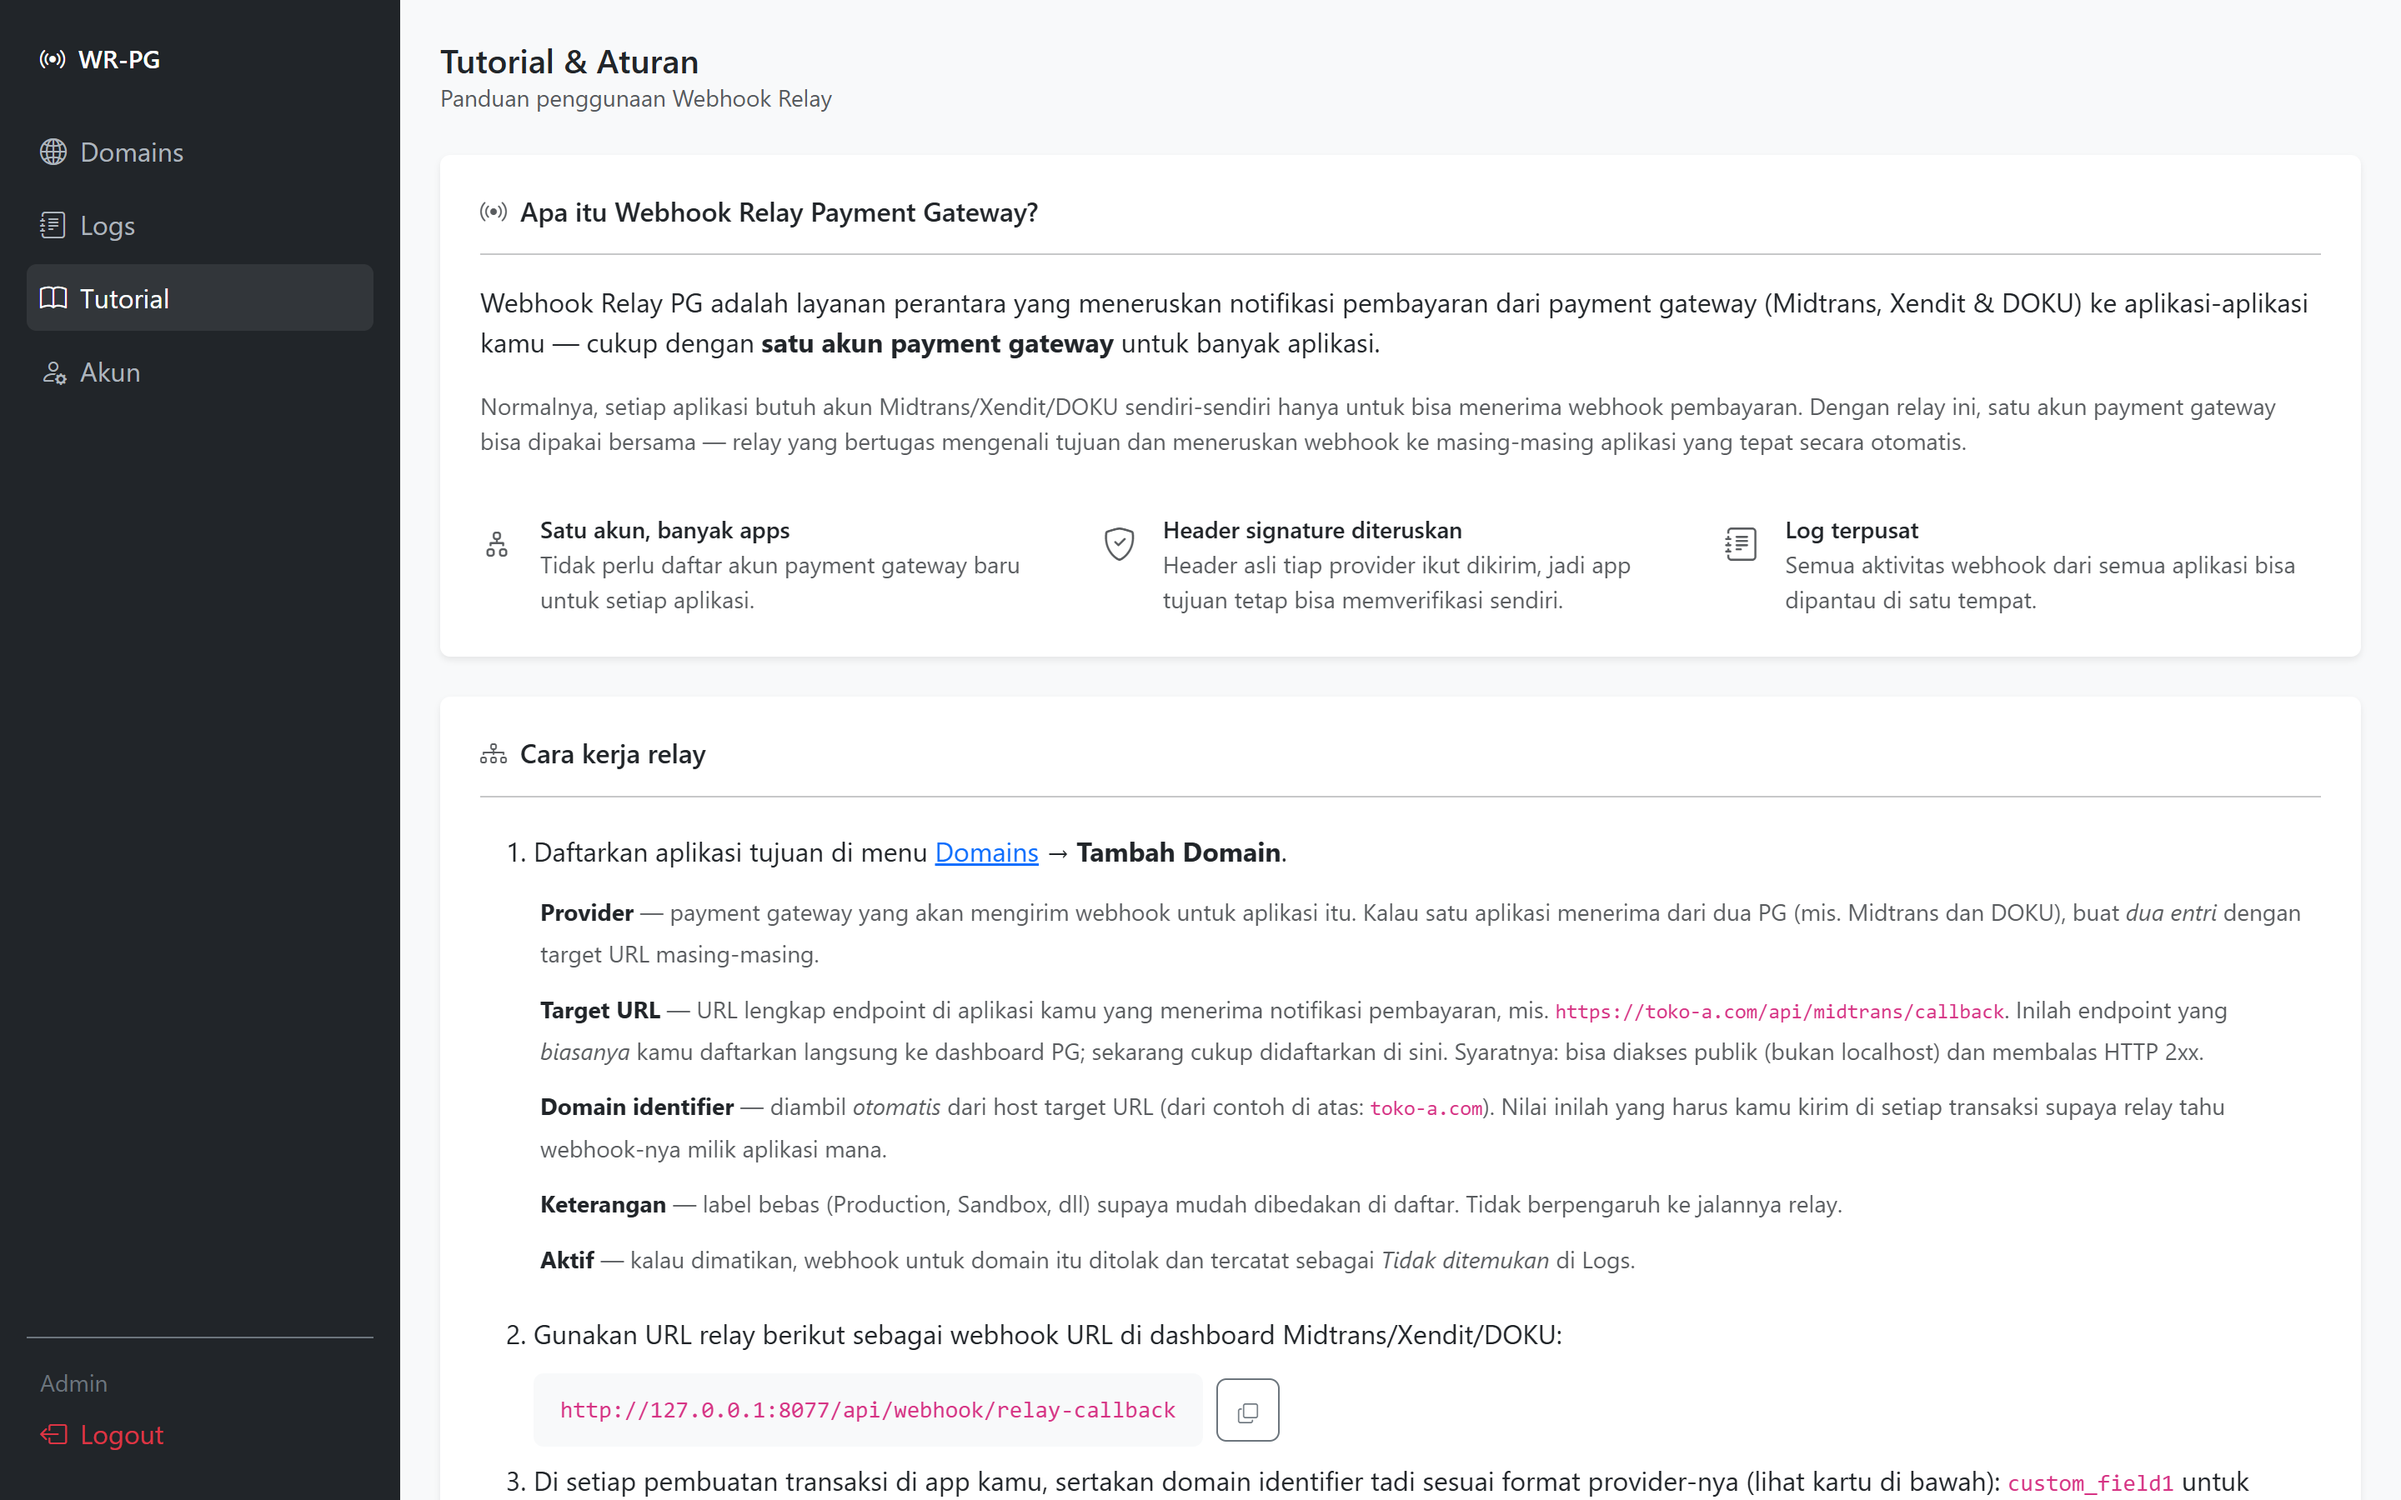
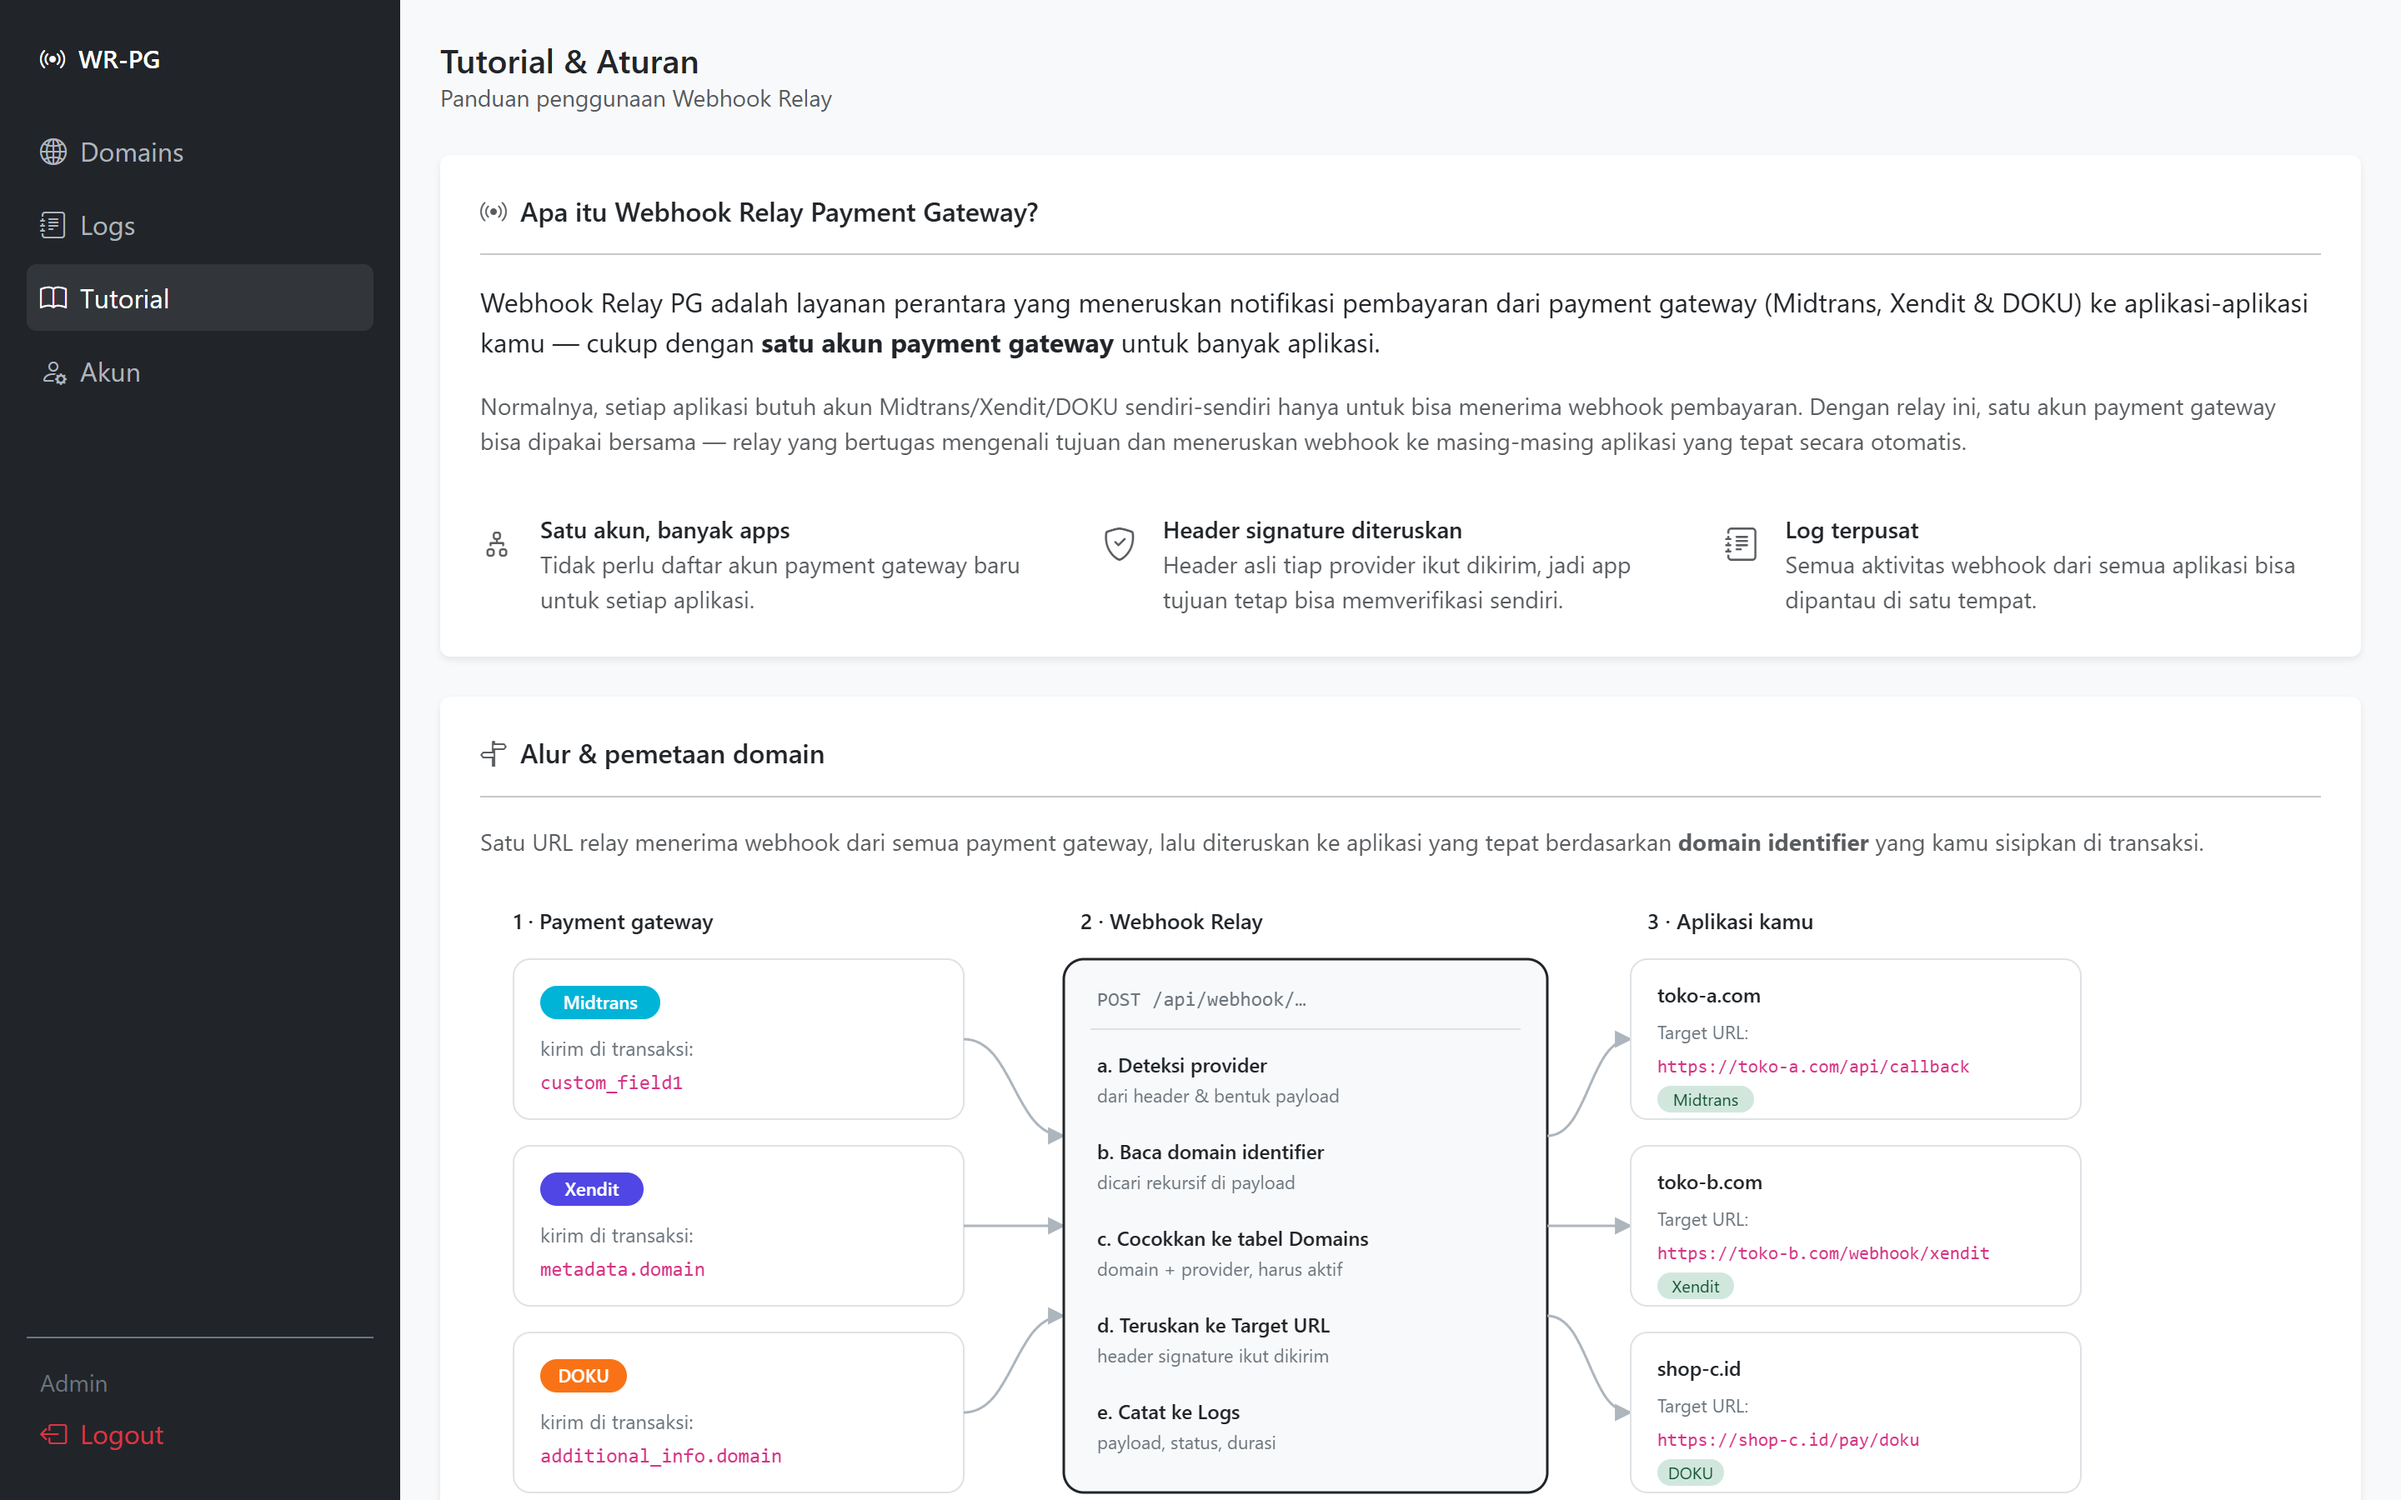
feat(tutorial): diagram alur & pemetaan domain identifier
Menjelaskan dengan gambar bagaimana satu URL relay melayani banyak aplikasi:
kolom payment gateway (beserta nama field yang membawa domain identifier),
langkah yang dikerjakan relay, dan aplikasi tujuan beserta target URL-nya.
Ada baris "kunci pemetaan" yang menegaskan nilai di transaksi harus sama
dengan host target URL, plus dua kartu penjelas hasil cocok / tidak cocok.

SVG inline tanpa library, memakai warna badge provider yang sudah ada.
Di layar sempit diagram bisa digeser horizontal dan diberi petunjuk geser;
halaman sendiri tidak ikut scroll ke samping.

Diagram diletakkan sebelum kartu "Cara kerja relay" supaya pembaca melihat
gambaran besarnya dulu, baru langkah rincinya.

Changed region(s): [[0.2188, 0.56, 0.9375, 1.0], [0.2188, 0.4978, 0.3438, 0.5289]]

diff --git a/resources/views/panel/tutorial.blade.php b/resources/views/panel/tutorial.blade.php
@@ -59,6 +59,159 @@
         </div>
     </div>
 
+    {{-- Diagram alur & mapping --}}
+    <div class="col-12">
+        <div class="card border-0 shadow-sm">
+            <div class="card-body p-3 p-md-4">
+                <h6 class="fw-semibold mb-3"><i class="bi bi-signpost-split me-2 text-muted"></i>Alur &amp; pemetaan domain</h6>
+                <hr>
+                <p class="small text-muted mb-3">
+                    Satu URL relay menerima webhook dari semua payment gateway, lalu diteruskan ke aplikasi
+                    yang tepat berdasarkan <strong>domain identifier</strong> yang kamu sisipkan di transaksi.
+                </p>
+
+                <div class="small text-muted d-lg-none mb-2">
+                    <i class="bi bi-arrow-left-right me-1"></i>Geser diagram ke samping untuk melihat semuanya.
+                </div>
+
+                <div class="overflow-x-auto pb-2">
+                    <svg viewBox="0 0 980 470" role="img" width="980"
+                         style="min-width:900px;max-width:100%;height:auto"
+                         aria-label="Diagram: payment gateway mengirim webhook ke satu URL relay, relay membaca domain identifier lalu meneruskan ke aplikasi yang cocok">
+                        <title>Alur webhook dan pemetaan domain identifier</title>
+
+                        <defs>
+                            <marker id="arrow" viewBox="0 0 10 10" refX="9" refY="5"
+                                    markerWidth="7" markerHeight="7" orient="auto-start-reverse">
+                                <path d="M0,0 L10,5 L0,10 z" fill="#adb5bd"/>
+                            </marker>
+                        </defs>
+
+                        <!-- judul kolom -->
+                        <text x="20"  y="26" font-size="13" font-weight="600" fill="#212529">1 &middot; Payment gateway</text>
+                        <text x="360" y="26" font-size="13" font-weight="600" fill="#212529">2 &middot; Webhook Relay</text>
+                        <text x="700" y="26" font-size="13" font-weight="600" fill="#212529">3 &middot; Aplikasi kamu</text>
+
+                        <!-- ===== kolom 1: provider ===== -->
+                        <g font-size="12">
+                            <rect x="20" y="44" width="270" height="96" rx="10" fill="#fff" stroke="#dee2e6"/>
+                            <rect x="36" y="60" width="72" height="20" rx="10" fill="#00b4d8"/>
+                            <text x="72" y="74" text-anchor="middle" fill="#fff" font-size="11" font-weight="600">Midtrans</text>
+                            <text x="36" y="102" fill="#6c757d">kirim di transaksi:</text>
+                            <text x="36" y="122" font-family="ui-monospace,monospace" fill="#d63384">custom_field1</text>
+
+                            <rect x="20" y="156" width="270" height="96" rx="10" fill="#fff" stroke="#dee2e6"/>
+                            <rect x="36" y="172" width="62" height="20" rx="10" fill="#4f46e5"/>
+                            <text x="67" y="186" text-anchor="middle" fill="#fff" font-size="11" font-weight="600">Xendit</text>
+                            <text x="36" y="214" fill="#6c757d">kirim di transaksi:</text>
+                            <text x="36" y="234" font-family="ui-monospace,monospace" fill="#d63384">metadata.domain</text>
+
+                            <rect x="20" y="268" width="270" height="96" rx="10" fill="#fff" stroke="#dee2e6"/>
+                            <rect x="36" y="284" width="52" height="20" rx="10" fill="#f97316"/>
+                            <text x="62" y="298" text-anchor="middle" fill="#fff" font-size="11" font-weight="600">DOKU</text>
+                            <text x="36" y="326" fill="#6c757d">kirim di transaksi:</text>
+                            <text x="36" y="346" font-family="ui-monospace,monospace" fill="#d63384">additional_info.domain</text>
+                        </g>
+
+                        <!-- panah provider -> relay -->
+                        <g stroke="#adb5bd" stroke-width="1.5" fill="none" marker-end="url(#arrow)">
+                            <path d="M290 92  C 320 92, 320 150, 350 150"/>
+                            <path d="M290 204 C 320 204, 320 204, 350 204"/>
+                            <path d="M290 316 C 320 316, 320 258, 350 258"/>
+                        </g>
+
+                        <!-- ===== kolom 2: relay ===== -->
+                        <rect x="350" y="44" width="290" height="320" rx="12" fill="#f8f9fa" stroke="#212529" stroke-width="1.5"/>
+                        <text x="370" y="72" font-size="12" font-family="ui-monospace,monospace" fill="#6c757d">POST /api/webhook/&hellip;</text>
+                        <line x1="366" y1="86" x2="624" y2="86" stroke="#dee2e6"/>
+
+                        <g font-size="12" fill="#212529">
+                            <text x="370" y="112" font-weight="600">a. Deteksi provider</text>
+                            <text x="370" y="130" font-size="11" fill="#6c757d">dari header &amp; bentuk payload</text>
+
+                            <text x="370" y="164" font-weight="600">b. Baca domain identifier</text>
+                            <text x="370" y="182" font-size="11" fill="#6c757d">dicari rekursif di payload</text>
+
+                            <text x="370" y="216" font-weight="600">c. Cocokkan ke tabel Domains</text>
+                            <text x="370" y="234" font-size="11" fill="#6c757d">domain + provider, harus aktif</text>
+
+                            <text x="370" y="268" font-weight="600">d. Teruskan ke Target URL</text>
+                            <text x="370" y="286" font-size="11" fill="#6c757d">header signature ikut dikirim</text>
+
+                            <text x="370" y="320" font-weight="600">e. Catat ke Logs</text>
+                            <text x="370" y="338" font-size="11" fill="#6c757d">payload, status, durasi</text>
+                        </g>
+
+                        <!-- panah relay -> aplikasi -->
+                        <g stroke="#adb5bd" stroke-width="1.5" fill="none" marker-end="url(#arrow)">
+                            <path d="M640 150 C 665 150, 665 92,  690 92"/>
+                            <path d="M640 204 C 665 204, 665 204, 690 204"/>
+                            <path d="M640 258 C 665 258, 665 316, 690 316"/>
+                        </g>
+
+                        <!-- ===== kolom 3: aplikasi ===== -->
+                        <g font-size="12">
+                            <rect x="690" y="44" width="270" height="96" rx="10" fill="#fff" stroke="#dee2e6"/>
+                            <text x="706" y="70" font-weight="600" fill="#212529">toko-a.com</text>
+                            <text x="706" y="92" font-size="11" fill="#6c757d">Target URL:</text>
+                            <text x="706" y="112" font-size="11" font-family="ui-monospace,monospace" fill="#d63384">https://toko-a.com/api/callback</text>
+                            <rect x="706" y="120" width="58" height="16" rx="8" fill="#d1e7dd"/>
+                            <text x="735" y="132" font-size="10" fill="#0f5132" text-anchor="middle">Midtrans</text>
+
+                            <rect x="690" y="156" width="270" height="96" rx="10" fill="#fff" stroke="#dee2e6"/>
+                            <text x="706" y="182" font-weight="600" fill="#212529">toko-b.com</text>
+                            <text x="706" y="204" font-size="11" fill="#6c757d">Target URL:</text>
+                            <text x="706" y="224" font-size="11" font-family="ui-monospace,monospace" fill="#d63384">https://toko-b.com/webhook/xendit</text>
+                            <rect x="706" y="232" width="46" height="16" rx="8" fill="#d1e7dd"/>
+                            <text x="729" y="244" font-size="10" fill="#0f5132" text-anchor="middle">Xendit</text>
+
+                            <rect x="690" y="268" width="270" height="96" rx="10" fill="#fff" stroke="#dee2e6"/>
+                            <text x="706" y="294" font-weight="600" fill="#212529">shop-c.id</text>
+                            <text x="706" y="316" font-size="11" fill="#6c757d">Target URL:</text>
+                            <text x="706" y="336" font-size="11" font-family="ui-monospace,monospace" fill="#d63384">https://shop-c.id/pay/doku</text>
+                            <rect x="706" y="344" width="40" height="16" rx="8" fill="#d1e7dd"/>
+                            <text x="726" y="356" font-size="10" fill="#0f5132" text-anchor="middle">DOKU</text>
+                        </g>
+
+                        <!-- ===== kunci pemetaan ===== -->
+                        <rect x="20" y="392" width="940" height="62" rx="10" fill="#fff" stroke="#dee2e6" stroke-dasharray="4 3"/>
+                        <text x="40" y="416" font-size="12" font-weight="600" fill="#212529">Kunci pemetaan</text>
+                        <text x="40" y="438" font-size="12" fill="#6c757d">
+                            nilai yang kamu kirim di transaksi
+                        </text>
+                        <text x="272" y="438" font-size="12" font-family="ui-monospace,monospace" fill="#d63384">toko-a.com</text>
+                        <text x="368" y="438" font-size="12" fill="#6c757d">harus sama persis dengan</text>
+                        <text x="540" y="438" font-size="12" fill="#6c757d">host dari Target URL &rarr;</text>
+                        <text x="700" y="438" font-size="12" font-family="ui-monospace,monospace" fill="#d63384">https://toko-a.com/api/callback</text>
+                    </svg>
+                </div>
+
+                <div class="row g-3 mt-1">
+                    <div class="col-12 col-md-6">
+                        <div class="border rounded p-3 h-100">
+                            <div class="fw-medium small mb-1"><i class="bi bi-check-circle text-success me-1"></i>Kalau cocok</div>
+                            <div class="small text-muted">
+                                Payload diteruskan ke Target URL. Status log <span class="badge bg-success-subtle text-success">Sukses</span>
+                                bila aplikasi tujuan membalas HTTP 2xx, atau <span class="badge bg-danger-subtle text-danger">Gagal</span>
+                                bila tidak merespons / membalas error — bisa dikirim ulang dari halaman Logs.
+                            </div>
+                        </div>
+                    </div>
+                    <div class="col-12 col-md-6">
+                        <div class="border rounded p-3 h-100">
+                            <div class="fw-medium small mb-1"><i class="bi bi-x-circle text-secondary me-1"></i>Kalau tidak cocok</div>
+                            <div class="small text-muted">
+                                Identifier salah ketik, belum didaftarkan, atau domainnya nonaktif &rarr; status
+                                <span class="badge bg-secondary-subtle text-secondary">Tidak ditemukan</span>.
+                                Payload tetap tersimpan di Logs, jadi bisa dicek nilai apa yang sebenarnya terkirim.
+                            </div>
+                        </div>
+                    </div>
+                </div>
+            </div>
+        </div>
+    </div>
+
     {{-- Cara kerja --}}
     <div class="col-12">
         <div class="card border-0 shadow-sm">
